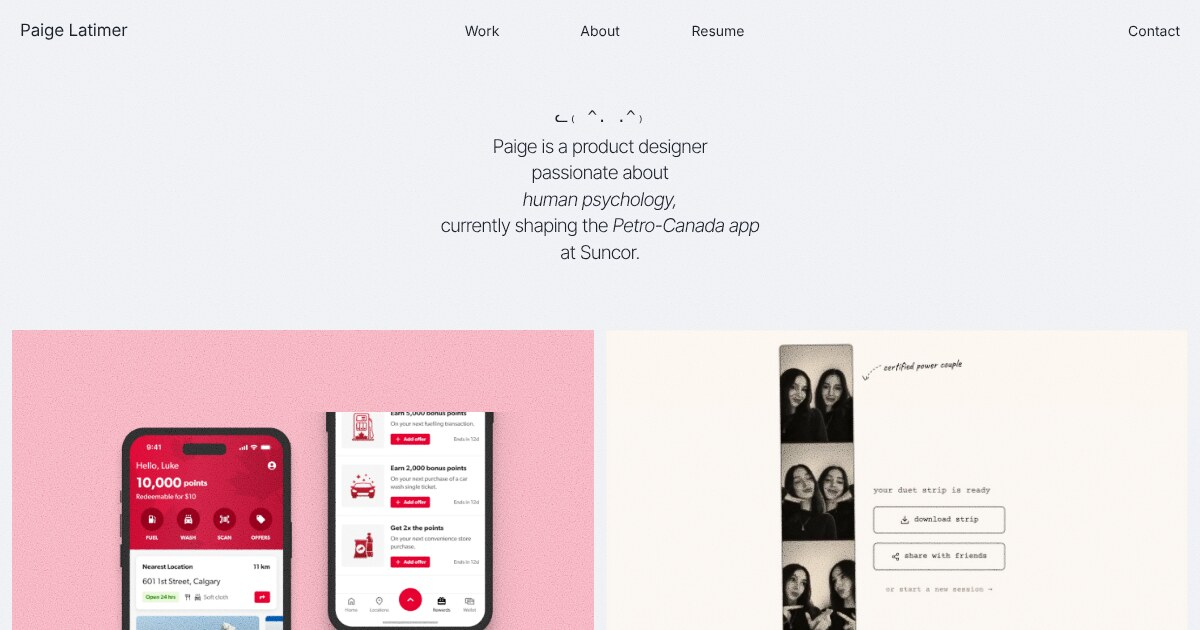
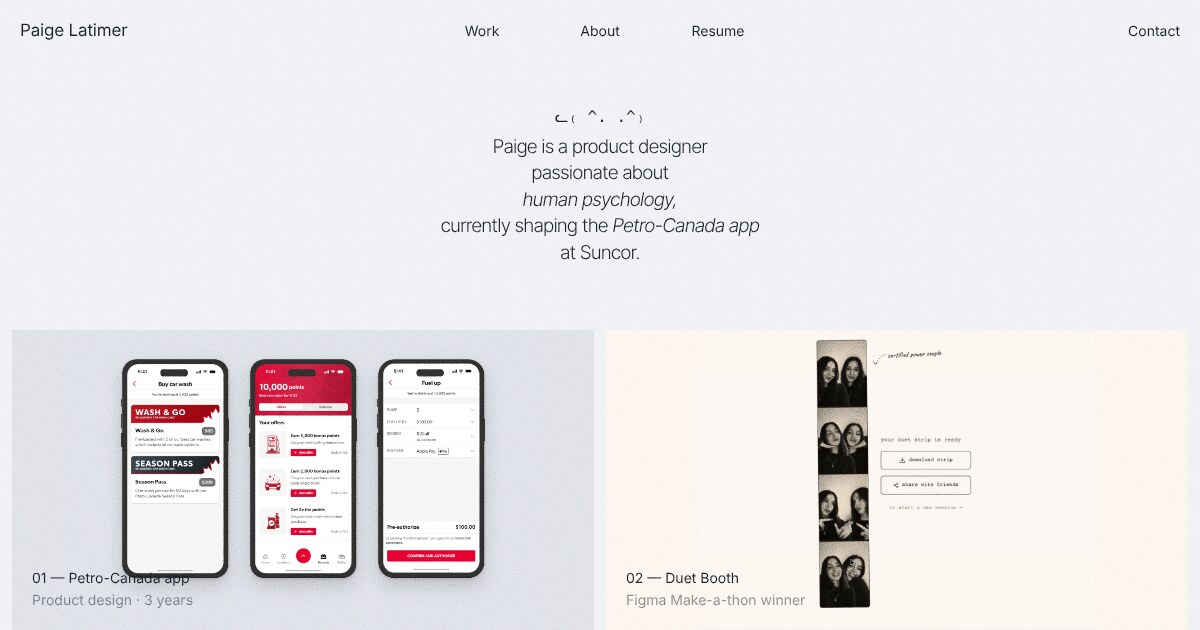
New Petro-Canada image: three app screens on the site's cool grey
Built from the App Store screenshot frames in Figma (car wash, offer
hub, fuel up). Used on the homepage tile, cropped to the centre phone
on narrow screens, and as the locked case study's header image.

Claude-Session: https://claude.ai/code/session_01LVFAFj7EPf4VzMPLLNaaoo

Changed region(s): [[0.0, 0.5127, 0.4933, 1.0], [0.5242, 0.5429, 0.8325, 1.0]]

diff --git a/petro-protected.html b/petro-protected.html
@@ -60,7 +60,7 @@
     </main>
 
     <!-- The case study, encrypted (AES-256-CBC + HMAC-SHA256, key from PBKDF2) -->
[2 lines of base64/hex data omitted]
 
     <script>
         window.addEventListener('DOMContentLoaded', function () {

diff --git a/index.html b/index.html
@@ -74,8 +74,8 @@
              for the gif. -->
         <section class="rd-work rd-work--two" aria-label="Work">
 
-            <a class="rd-work__item rd-work__item--fit rd-reveal" href="petro-protected.html" style="--tile:#f5aebc">
-                <img src="img/petro.png" alt="Petro-Canada app screens on a pink background">
+            <a class="rd-work__item rd-work__item--fit rd-work__item--crop-narrow rd-reveal" href="petro-protected.html" style="--tile:#dcdfe5">
+                <img src="img/petro-app.jpg" alt="Three Petro-Canada app screens: buying a car wash, the offer hub, and fuelling up">
                 <span class="rd-work__text">
                     <span class="rd-work__label">01 — Petro-Canada app</span>
                     <span class="rd-work__note">Product design · 3 years</span>

diff --git a/css/redesign.css b/css/redesign.css
@@ -148,6 +148,14 @@ body.redesign::after {
     object-fit: contain;
 }
 
+/* on narrow screens the tile turns tall: crop in to the middle of a wide image
+   (e.g. the centre phone) instead of shrinking the whole thing */
+@media (max-width: 760px) {
+    .rd-work__item.rd-work__item--crop-narrow img {
+        object-fit: cover;
+    }
+}
+
 /* while the earlier-work tile is hidden: just the two headline projects */
 .rd-work--two {
     grid-template-columns: repeat(2, minmax(0, 1fr));
